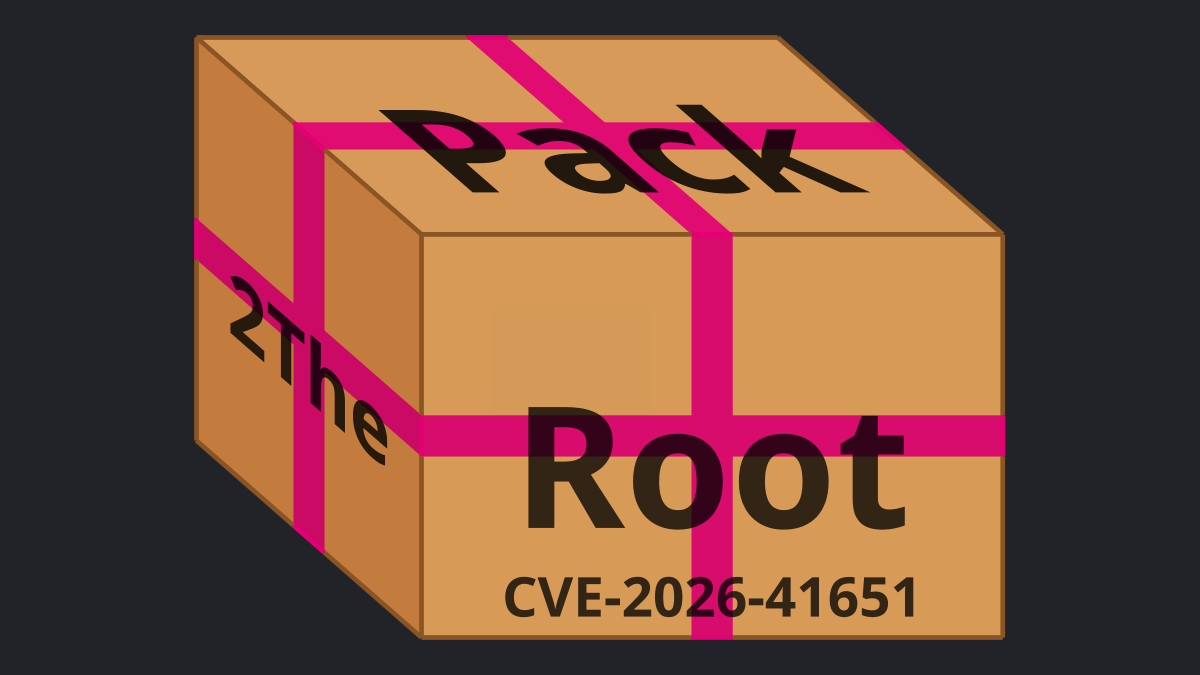
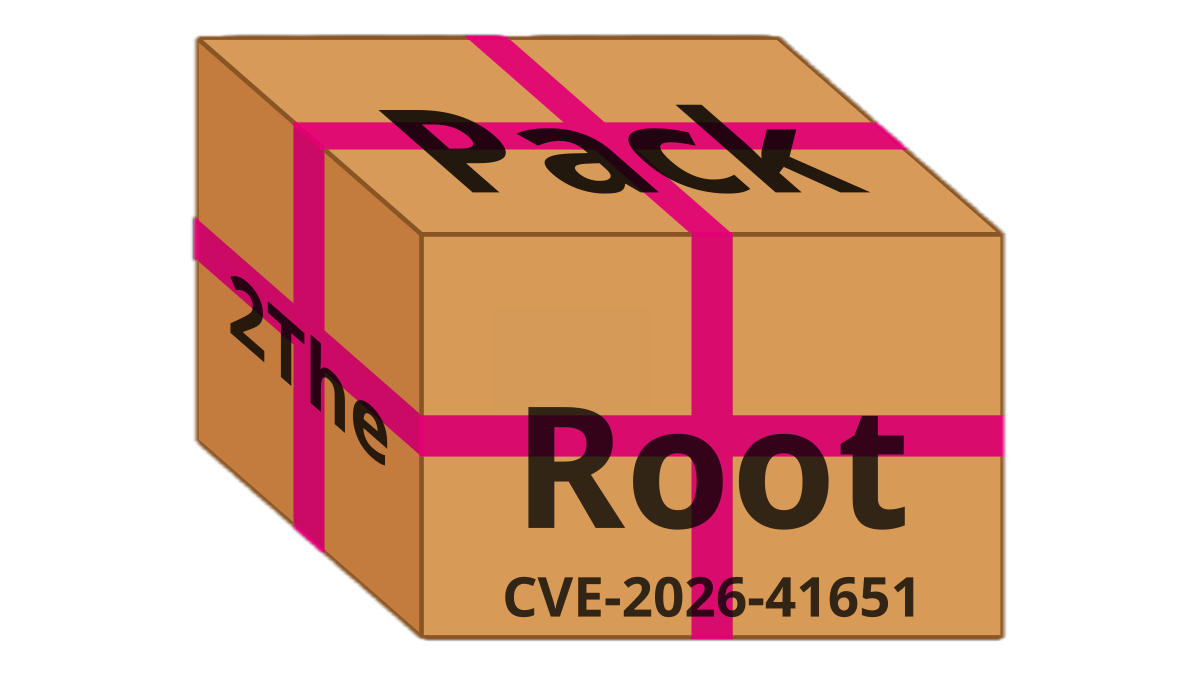
Update image display style to use 'contain' for better responsiveness

diff --git a/_sass/custom.scss b/_sass/custom.scss
@@ -565,7 +565,7 @@ table {
   width: 100%;
   height: 100%;
   min-height: 17rem;
-  object-fit: cover;
+  object-fit: contain;
 }
 
 .text-link {
@@ -632,7 +632,7 @@ table {
 .post-card__image img {
   width: 100%;
   height: 100%;
-  object-fit: cover;
+  object-fit: contain;
 }
 
 .post-card__body {